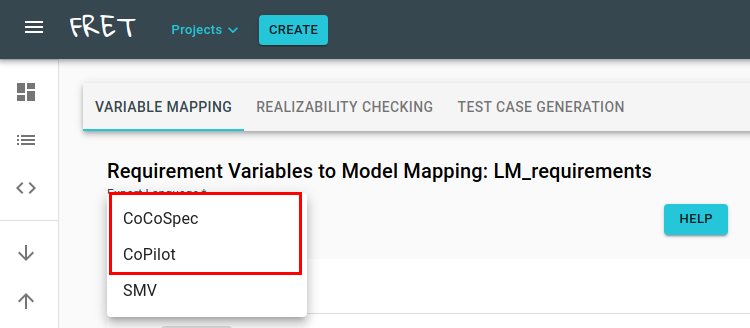
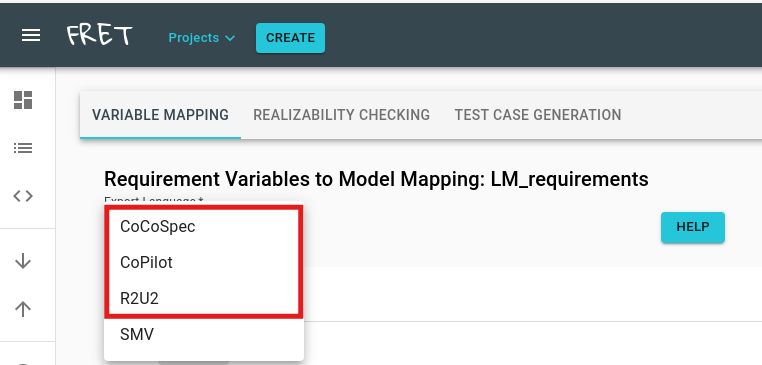
Add applicable documentation for R2U2 export

diff --git a/fret-electron/docs/_media/ExportingForAnalysis/analysis.md b/fret-electron/docs/_media/ExportingForAnalysis/analysis.md
@@ -1,10 +1,10 @@
 # Exporting to Analysis tools
 
-For analysis, FRET allows users to export requirements in formats that can be digested by other analysis tools. We have connected FRET with [CoCoSim](./cocosim.md) and [Copilot](./copilot.md) through the FRET analysis portal.
+For analysis, FRET allows users to export requirements in formats that can be digested by other analysis tools. We have connected FRET with [CoCoSim](./cocosim.md), [Copilot](./copilot.md), and [R2U2](./r2u2.md) through the FRET analysis portal.
 
 Below we present a step-by-step guide of the [FRET analysis portal](#fretanalysisportal).
 
-Please click on the tool names to view brief summaries of the analysis tools: [CoCoSim](./cocosim.md) and [Copilot](./copilot.md) tools.
+Please click on the tool names to view brief summaries of the analysis tools: [CoCoSim](./cocosim.md), [Copilot](./copilot.md), and [R2U2](./r2u2.md) tools.
 
 [Back to FRET home page](../userManual.md)
 
@@ -44,7 +44,7 @@ FRET automatically extracts all components, variables, functions, and modes that
 
 **3. Choose export language**
 
-Pick an export language for the generated specification/code. We currently offer two options: 1) CoCoSpec and 2) Copilot . SMV is currently only compatible with test obligation exports (see [Test Case Generation manual](../exports/testgenManual.md) for details).
+Pick an export language for the generated specification/code. We currently offer two options: 1) CoCoSpec, 2) Copilot, and 3) R2U2. SMV is currently only compatible with test obligation exports (see [Test Case Generation manual](../exports/testgenManual.md) for details).
 
 ***
 <img src="../screen_shots/AnalysisPortal3_v3.0.png">
@@ -55,20 +55,23 @@ Pick an export language for the generated specification/code. We currently offer
 
 Depending on the chosen export language, there are different requirements
 for generating the corresponding specification code. In particular, for
-generating CoCoSpec code, all variable information must be added/mapped, whereas
+generating CoCoSpec code and R2U2 monitors, all variable information must be added/mapped, whereas
 there is no such requirement with Copilot.
 
 ***4a. Copilot code generation***
 
 No variable information is required for Copilot. Optionally, the user can follow the steps described below to add information about the data type, variable type, etc. of each variable.
 
-***4b. CoCoSpec code generation***
+***4b. CoCoSpec code and R2U2 monitor generation***
 
 To generate CoCoSpec code, for each variable, the following information must be entered by the user; i.e.,
 * data type (i.e., bool, int, real, etc),
 * variable type (i.e., input, output, internal, mode, function),
 * internal variable assignments,
 * mode require statements.
+
+> [!NOTE]
+> R2U2 does not support unsigned integer or single data types or function variable types.
 
 A user may optionally import information from a corresponding Simulink model and also make the mapping between the components/variables described in the requirements and the components/port types of the Simulink model. To do that, the user can optionally generate the model information in a compliant-to-FRET JSON format by using `fret/tools/Scripts/Matlab/fret_IR.m`. Then the JSON file can be imported into FRET by clicking the Import button.
 
@@ -84,7 +87,7 @@ If model information has been imported, the user may pick for each FRET componen
 
 ***
 
-Next, for each variable, all mandatory fields must be completed. For each type of variable, i.e., `Input`, `Output`, `Internal`, and `Mode`, there are different mandatory fields. Mandatory fields are depicted with an asterisk.
+Next, for each variable, all mandatory fields must be completed. For each type of variable, i.e., `Input`, `Output`, `Internal`, `Function`, and `Mode`, there are different mandatory fields. Mandatory fields are depicted with an asterisk.
 
 ***
 <img src="../screen_shots/AnalysisPortal4c_v3.0.png">  
@@ -103,11 +106,12 @@ To complete the information of a variable, please click on the corresponding FRE
 
 ***
 <img src="../screen_shots/AnalysisPortal4e.png">
+
 ***
 
 **5. Click on the Export button and save the generated code**
 
-Once all mandatory fields have been completed for all the variables/modes of a component, then the export button becomes enabled for CoCoSpec code generation.
+Once all mandatory fields have been completed for all the variables/modes of a component, then the export button becomes enabled for CoCoSpec code and R2U2 monitor generation.
 
 ***
 <img src="../screen_shots/AnalysisPortal5.png"> 
@@ -121,7 +125,11 @@ Since there are no mandatory fields for Copilot, the export buttons are always e
 
 ***
 
-Once the export button is clicked, the generated code can be saved in the form of a Lustre file along with model traceability data. The two files are compined in .zip format. The Lustre specification and the traceability data files can then be given as input to the CoCoSim tool.
+***5a. Exporting CoCoSpec code***
+Once the export button is clicked, the generated code can be saved in the form of a Lustre file along with model traceability data. The two files are combined in .zip format. The Lustre specification and the traceability data files can then be given as input to the CoCoSim tool.
+
+***5b. Exporting R2U2 monitors***
+Once the export button is clicked, the generated monitors can be saved in the form of a C2PO specification file along with an example csv trace header file and map file for mapping input signals into R2U2. The three files are combined in .zip format. The C2PO specification and either the example csv trace header or map file can then be given as input to C2PO to create an R2U2 configuration.
 
 ***
 <img src="../screen_shots/AnalysisPortal5b.png">  

diff --git a/fret-electron/docs/_media/ExportingForAnalysis/analysisInsideFRET.md b/fret-electron/docs/_media/ExportingForAnalysis/analysisInsideFRET.md
@@ -1,6 +1,6 @@
 # Exporting to Analysis tools
 
-For analysis, FRET allows users to export requirements in formats that can be digested by other analysis tools. We have connected FRET with [CoCoSim](https://github.com/NASA-SW-VnV/CoCoSim) and [Copilot](https://copilot-language.github.io/) through the FRET analysis portal.
+For analysis, FRET allows users to export requirements in formats that can be digested by other analysis tools. We have connected FRET with [CoCoSim](https://github.com/NASA-SW-VnV/CoCoSim),  [Copilot](https://copilot-language.github.io/), and [R2U2](https://github.com/R2U2/r2u2) through the FRET analysis portal.
 
 Below we present a step-by-step guide of the FRET analysis portal.
 
@@ -54,7 +54,7 @@ FRET automatically extracts all components, variables, functions, and modes that
 
 **3. Choose export language**
 
-Pick an export language for the generated specification/code. We currently offer two options: 1) CoCoSpec and 2) Copilot. SMV is currently only compatible with test obligation exports (see Test Case Generation manual for details).
+Pick an export language for the generated specification/code. We currently offer two options: 1) CoCoSpec, 2) Copilot, and 3) R2U2. SMV is currently only compatible with test obligation exports (see Test Case Generation manual for details).
 
 
 
@@ -82,13 +82,15 @@ No variable information is required for Copilot. Optionally, the user can follow
 
 &nbsp;&nbsp;&nbsp;&nbsp;
 
-***4b. CoCoSpec code generation***
+***4b. CoCoSpec code and R2U2 monitor generation***
 
 To generate CoCoSpec code, for each variable, the following information must be entered by the user; i.e.,
 * data type (i.e., bool, int, real, etc),
 * variable type (i.e., input, output, internal, mode, function),
 * internal variable assignments,
 * mode require statements.
+
+** Note: R2U2 does not support unsigned integer or single data types or function variable types.
 
 A user may optionally import information from a corresponding Simulink model and also make the mapping between the components/variables described in the requirements and the components/port types of the Simulink model. To do that, the user can optionally generate the model information in a compliant-to-FRET JSON format by using `fret/tools/Scripts/Matlab/fret_IR.m`. Then the JSON file can be imported into FRET by clicking the Import button.
 
@@ -108,7 +110,7 @@ If model information has been imported, the user may pick for each FRET componen
 
 ***
 
-Next, for each variable, all mandatory fields must be completed. For each type of variable, i.e., `Input`, `Output`, `Internal`, and `Mode`, there are different mandatory fields. Mandatory fields are depicted with an asterisk.
+Next, for each variable, all mandatory fields must be completed. For each type of variable, i.e., `Input`, `Output`, `Internal`, `Function`, and `Mode`, there are different mandatory fields. Mandatory fields are depicted with an asterisk.
 
 ***
 &nbsp;&nbsp;&nbsp;&nbsp;
@@ -136,7 +138,7 @@ To complete the information of a variable, please click on the corresponding FRE
 
 **5. Click on the Export button and save the generated code**
 
-Once all mandatory fields have been completed for all the variables/modes of a component, then the export button becomes enabled for CoCoSpec code generation.
+Once all mandatory fields have been completed for all the variables/modes of a component, then the export button becomes enabled for CoCoSpec code and R2U2 monitor generation.
 
 ***
 &nbsp;&nbsp;&nbsp;&nbsp;
@@ -154,7 +156,11 @@ Since there are no mandatory fields for Copilot, the export buttons are always e
 
 ***
 
-Once the export button is clicked, the generated code can be saved in the form of a Lustre file along with model traceability data. The two files are compined in .zip format. The Lustre specification and the traceability data files can then be given as input to the CoCoSim tool.
+***5a. Exporting CoCoSpec code***
+Once the export button is clicked, the generated code can be saved in the form of a Lustre file along with model traceability data. The two files are combined in .zip format. The Lustre specification and the traceability data files can then be given as input to the CoCoSim tool.
+
+***5b. Exporting R2U2 monitors***
+Once the export button is clicked, the generated monitors can be saved in the form of a C2PO specification file along with an example csv trace header file and map file for mapping input signals into R2U2. The three files are combined in .zip format. The C2PO specification and either the example csv trace header or map file can then be given as input to C2PO to create an R2U2 configuration.
 
 ***
 &nbsp;&nbsp;&nbsp;&nbsp;

diff --git a/fret-electron/docs/_media/ExportingForAnalysis/r2u2.md b/fret-electron/docs/_media/ExportingForAnalysis/r2u2.md
@@ -1,0 +1,31 @@
+# R2U2
+The [Realizable, Reconfigurable, Unobtrusive Unit (R2U2)](https://github.com/R2U2/r2u2) is a stream-based runtime verification framework based on Mission-time Linear Temporal Logic (MLTL) designed to monitor safety- or mission-critical systems with constrained computational resources.
+
+Given a specification and input stream, R2U2 will output a stream of verdicts computing whether the specification with respect to the input stream. Specifications can be written and compiled using the Configuration Compiler for Property Organization (C2PO).
+
+Through our FRET-To-R2U2 integration, we allow users to write requirements using the intuitive language of FRET, automatically formalize them, and export MLTL specifications in a C2PO specification file along with an example csv trace header file and map file for mapping input signals into R2U2. The C2PO specification and either the example csv trace header or map file can then be given as input to C2PO to create an R2U2 configuration.
+
+> [!NOTE]
+> Because MLTL doesn't reason over unbounded temporal operators, if a temporal operator must hold for the entire trace, one will observe `M`, which indicates the end of mission-time, as the upper bound of the interval. A warning comment will be included in the C2PO file as larger temporal intervals require extra memory resources.
+
+## The FRET-R2U2 integration workflow
+
+The figure below shows the workflow of R2U2.  Initially, requirements written in FRETish are translated by FRET into pure Future Time Mission-time Linear Temporal Logic (MLTL) formulas. MLTL is a variant of LTL over finite traces with bounded, closed, and discrete intervals on temporal intervals. Variables data must be provided by the user regarding the requirement variables (e.g., data types and variable types). The MLTL formulas and the variables data are used to generate a C2PO specification. An example [csv trace header file and map file](https://r2u2.github.io/r2u2/_collections/c2po_docs/user/signal_mapping.html) are also generated for mapping input signals into R2U2. The C2PO specification and either the example csv trace header or map file can then be given as input to C2PO to create an R2U2 configuration. The R2U2 configuration will configure the C and Rust versions of R2U2. For more information on R2U2, refer to R2U2's [documentation](https://r2u2.github.io/r2u2/). There is also an [online playground](https://r2u2.temporallogic.org/playground/) available to quickly run and experiment with the R2U2 configuration. 
+
+<img src="../screen_shots/R2U2Workflow.png"/>
+
+## Optional WEST MLTL Validation
+
+For validation of MLTL specifications, the requirement update dialog box provides an optional [WEST](https://west.temporallogic.org/) output.
+
+> [!NOTE]
+> With the WEST format, one will need to manually specify `M` (i.e., the end of mission-time).
+
+
+<img src="../screen_shots/WESTFormat.png"/>
+
+***
+
+[Back to Analysis Portal page](./analysis.md)
+
+[Back to FRET home page](../userManual.md)

diff --git a/CONTRIBUTORS.md b/CONTRIBUTORS.md
@@ -28,6 +28,10 @@ Interns
 * Daniel Riley
 * [Gricel Vazquez Flores](https://www.cs.york.ac.uk/people/?group=his&username=gricel)
 
+External
+-------
+
+* Alexis Aurandt (Collins Aerospace)
 
 FRET Before Open Sourcing
 -------------------------
